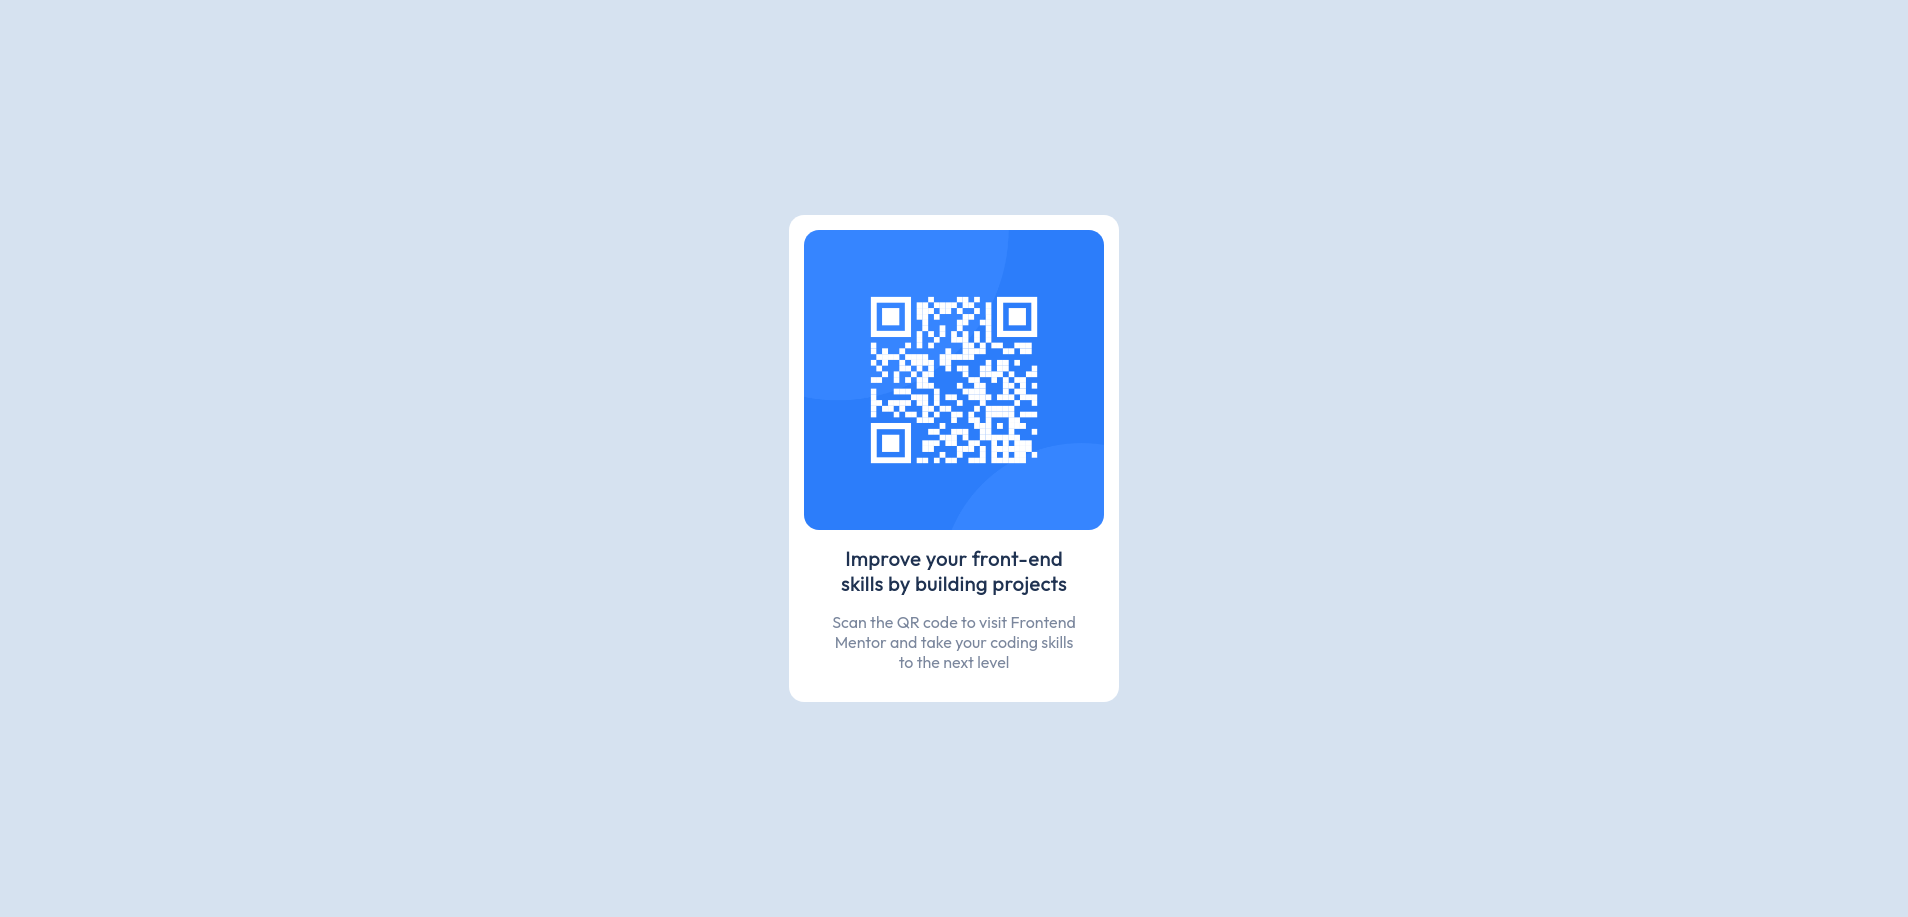
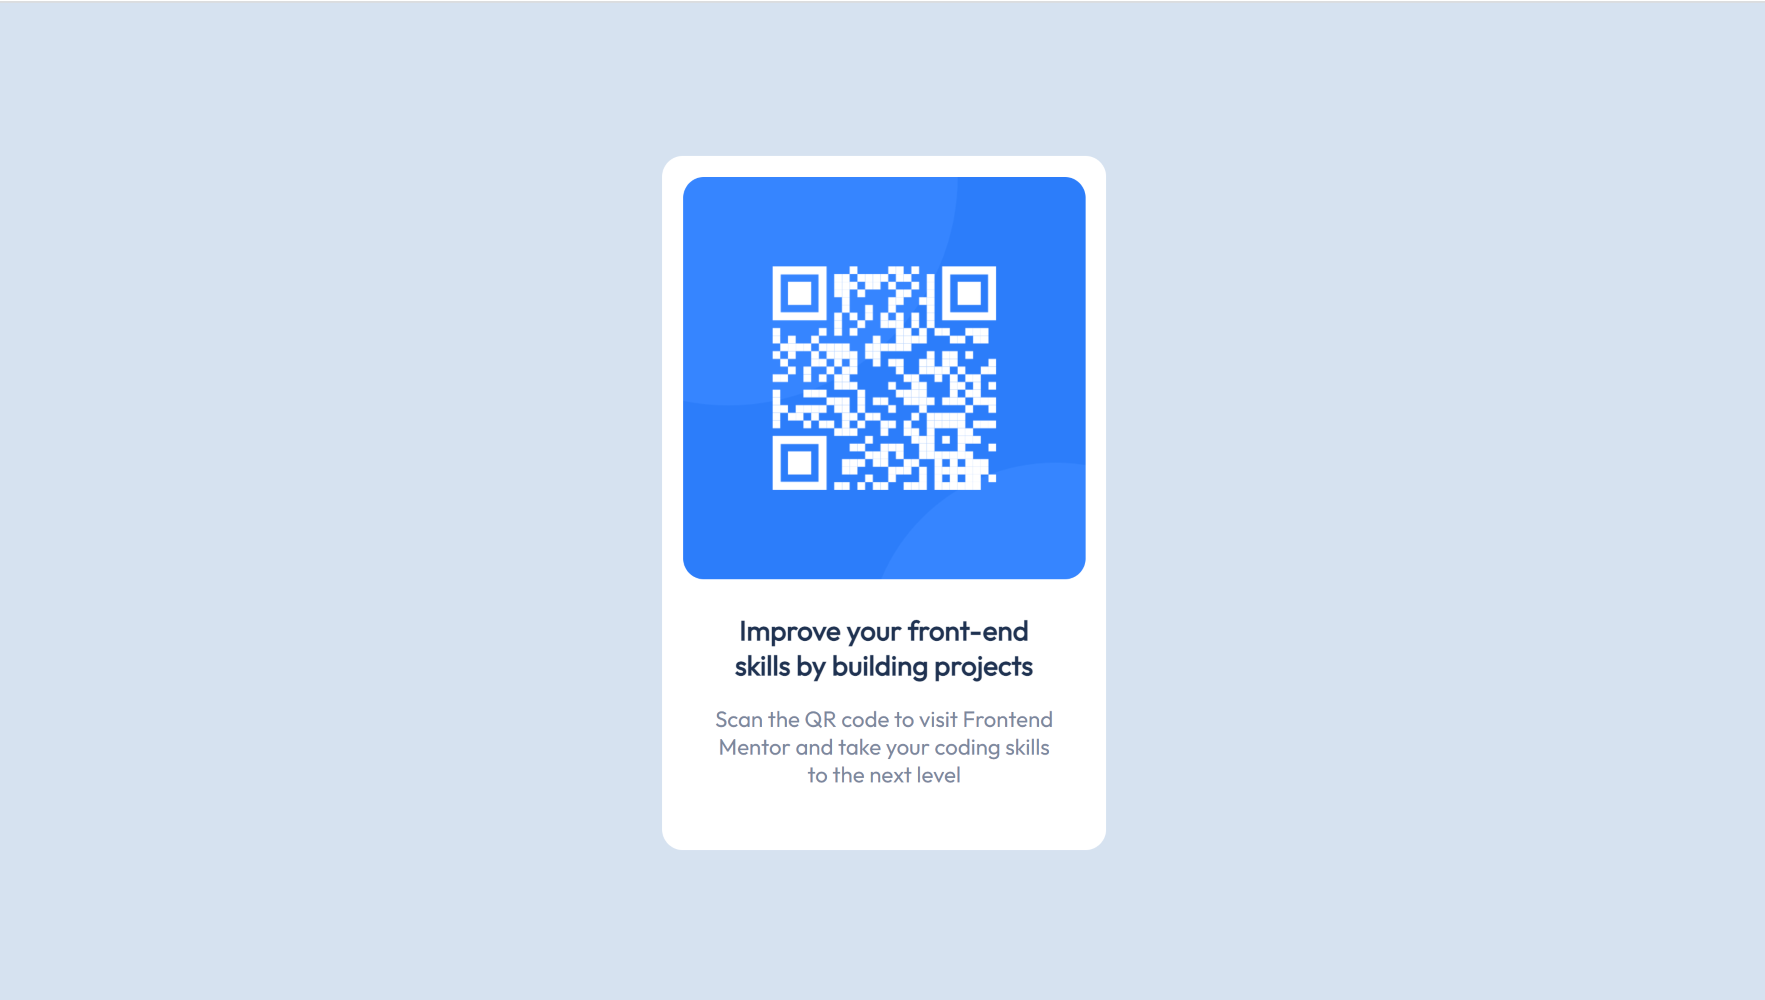
Updated the desktop screenshot and added to the readme.

Changed region(s): [[0.3739, 0.1527, 0.6544, 0.855]]

diff --git a/README.md b/README.md
@@ -63,6 +63,22 @@ body {
 
 This provides yet another way for me to place/style footers in future webpages I design.
 
+After submitting my first solution, I also had to go back and replace my div containers with HTML landmark elements to fix the accessbility issues.
+
+```html
+<body>
+  <div class="content-wrap">
+    <main class="container">
+      <img />
+
+      <h1 class="header"></h1>
+      <p class="text"></p>
+    </main>
+  </div>
+  <footer class="attribution"></footer>
+</body>
+```
+
 ## Author
 
 - GitHub - [Daniel Armijo](https://github.com/darmijo15/)
